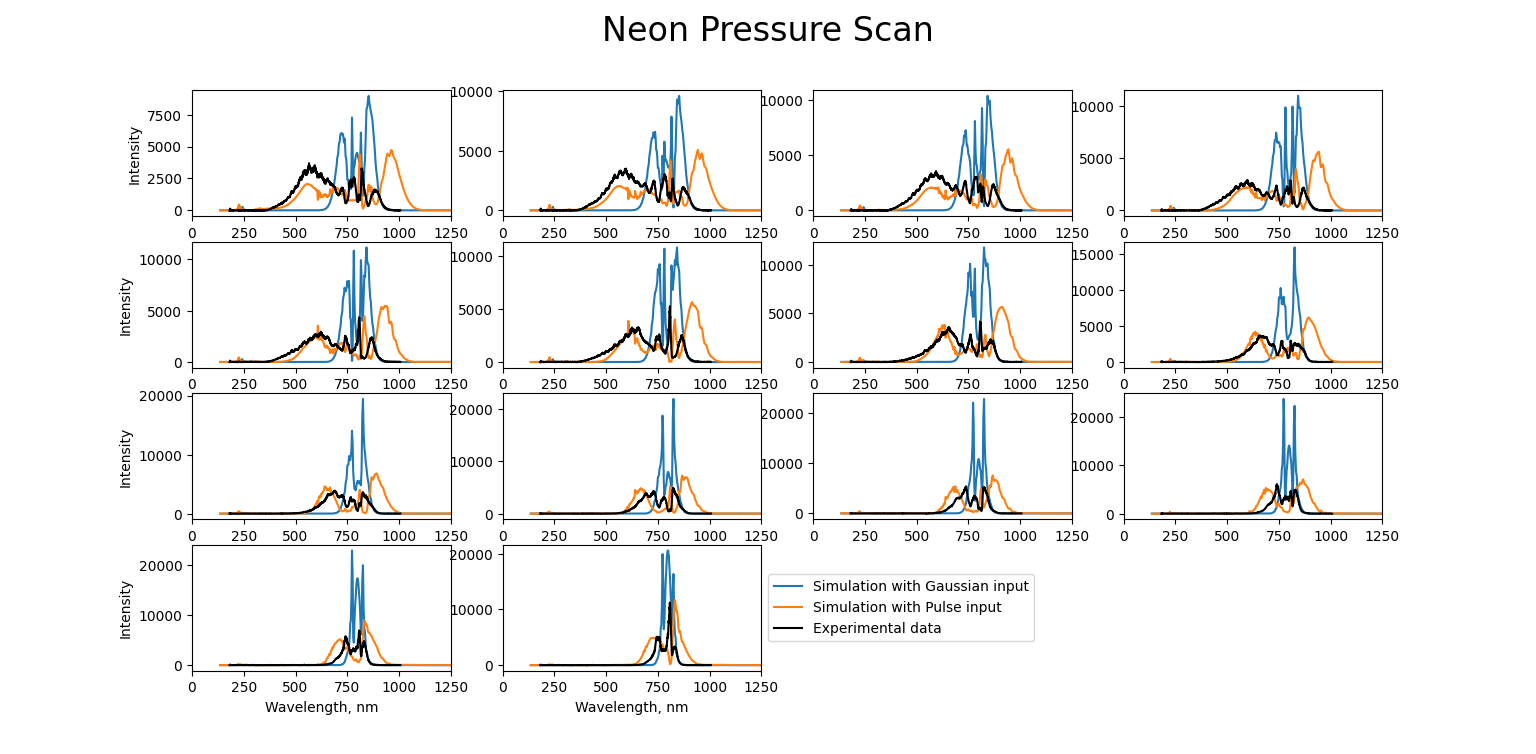
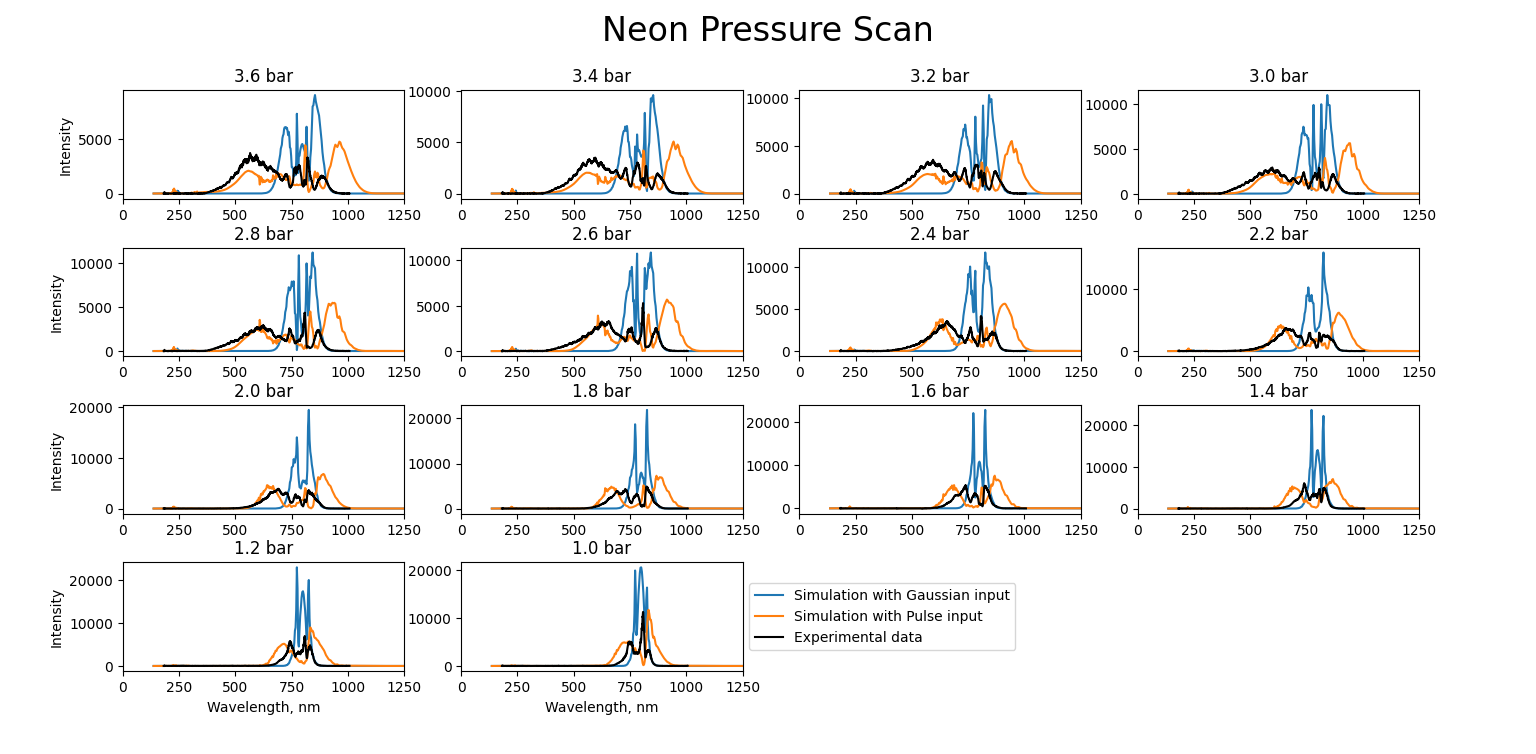
added titles to plots

diff --git a/HCF sim/Python/experiments/simulations/compare_outputs_plot.py b/HCF sim/Python/experiments/simulations/compare_outputs_plot.py
@@ -379,6 +379,7 @@ axs_Ne_pressures[2,2].plot(wavel_nm, I1_6, color='black')
 axs_Ne_pressures[2,3].plot(wavel_nm, I1_4, color='black')
 axs_Ne_pressures[3,0].plot(wavel_nm, I1_2, color='black')
 axs_Ne_pressures[3,1].plot(wavel_nm, I1_0, color='black', label='Experimental data')
+
 #####################################################################################################################
 # Format plots
 fig_Ar_powers.delaxes(axs_Ar_powers[2,2])
@@ -388,6 +389,51 @@ fig_Ne_powers.delaxes(axs_Ne_powers[2,3])
 fig_Ar_pressures.delaxes(axs_Ar_pressures[1,3])
 fig_Ne_pressures.delaxes(axs_Ne_pressures[3,2])
 fig_Ne_pressures.delaxes(axs_Ne_pressures[3,3])
+
+axs_Ar_powers[0,0].set_title('1.2W')
+axs_Ar_powers[0,1].set_title('1.1W')
+axs_Ar_powers[0,2].set_title('1.0W')
+axs_Ar_powers[0,3].set_title('0.9W')
+axs_Ar_powers[1,0].set_title('0.8W')
+axs_Ar_powers[1,1].set_title('0.7W')
+axs_Ar_powers[1,2].set_title('0.6W')
+axs_Ar_powers[1,3].set_title('0.5W')
+axs_Ar_powers[2,0].set_title('0.4W')
+axs_Ar_powers[2,1].set_title('0.3W')
+
+axs_Ne_powers[0,0].set_title('1.2W')
+axs_Ne_powers[0,1].set_title('1.1W')
+axs_Ne_powers[0,2].set_title('1.0W')
+axs_Ne_powers[0,3].set_title('0.9W')
+axs_Ne_powers[1,0].set_title('0.8W')
+axs_Ne_powers[1,1].set_title('0.7W')
+axs_Ne_powers[1,2].set_title('0.6W')
+axs_Ne_powers[1,3].set_title('0.5W')
+axs_Ne_powers[2,0].set_title('0.4W')
+axs_Ne_powers[2,1].set_title('0.3W')
+
+axs_Ar_pressures[0,0].set_title('1.4 bar')
+axs_Ar_pressures[0,1].set_title('1.2 bar')
+axs_Ar_pressures[0,2].set_title('1.0 bar')
+axs_Ar_pressures[0,3].set_title('0.8 bar')
+axs_Ar_pressures[1,0].set_title('0.6 bar')
+axs_Ar_pressures[1,1].set_title('0.4 bar')
+axs_Ar_pressures[1,2].set_title('0.2 bar')
+
+axs_Ne_pressures[0,0].set_title('3.6 bar')
+axs_Ne_pressures[0,1].set_title('3.4 bar')
+axs_Ne_pressures[0,2].set_title('3.2 bar')
+axs_Ne_pressures[0,3].set_title('3.0 bar')
+axs_Ne_pressures[1,0].set_title('2.8 bar')
+axs_Ne_pressures[1,1].set_title('2.6 bar')
+axs_Ne_pressures[1,2].set_title('2.4 bar')
+axs_Ne_pressures[1,3].set_title('2.2 bar')
+axs_Ne_pressures[2,0].set_title('2.0 bar')
+axs_Ne_pressures[2,1].set_title('1.8 bar')
+axs_Ne_pressures[2,2].set_title('1.6 bar')
+axs_Ne_pressures[2,3].set_title('1.4 bar')
+axs_Ne_pressures[3,0].set_title('1.2 bar')
+axs_Ne_pressures[3,1].set_title('1.0 bar')
 
 axs_Ar_powers[2,1].legend(loc='center left', bbox_to_anchor=(1, 0.5))
 axs_Ne_powers[2,1].legend(loc='center left', bbox_to_anchor=(1, 0.5))
